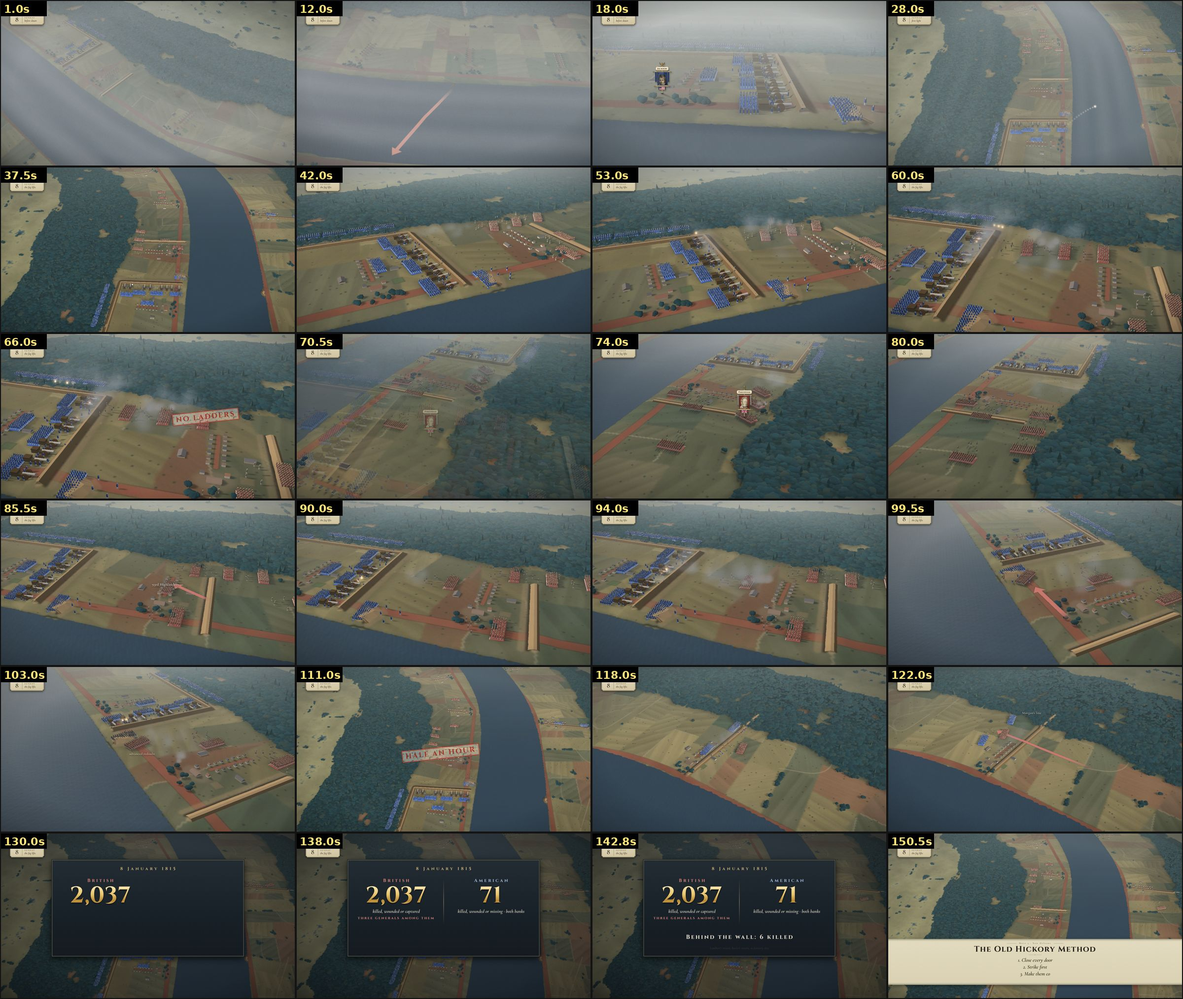
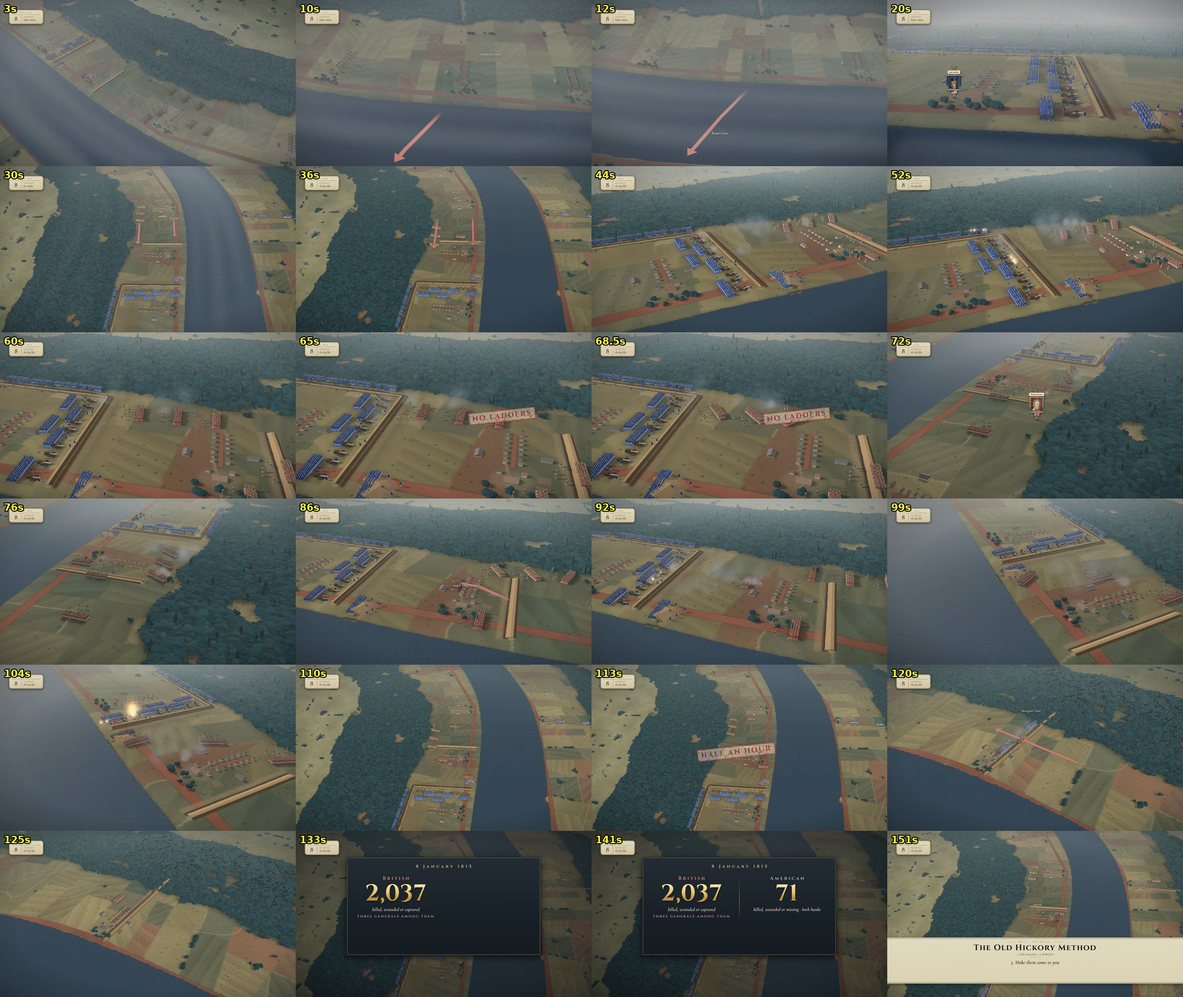
Jackson: round 1 fixes S05-S07, engine retreatTurn + depthK, S01/S03 follow-ups
Claude-Session: https://claude.ai/code/session_011uJnjAkjbSabL4aypQkYaz

diff --git a/ajackson/sequences/S03/seq.js b/ajackson/sequences/S03/seq.js
@@ -33,13 +33,15 @@ const SWIM = [8699.3, 1292.2];                                    // the south (
 const units = [];
 // the Red Stick warriors behind the wall (about 1,000): four lines facing north; at the charge they about-face and fall back toward the toe
 const RS = [0.14, 0.38, 0.62, 0.86].map((k, i) => ({ side: "r", type: "inf", n: 2, face: FN, arrive: false, t0: 7.0, t1: 113.6,
-  keys: [[0, ...wall(k, -0.75)], [[90.6, 89.4, 89.6, 90.4][i], ...wall(k, -0.75)], [100.5 + i * 0.4, ...[[8700.0, 1283.6], [8702.2, 1284.3], [8705.2, 1284.0], [8706.0, 1282.1]][i]],
+  // round 1 (S05-S07 author, engine retreatTurn): hold at the wall while the block turns about in place (~7 s, from the charge), then ONE
+  // straight walk back toward the toe (two legs with a corner would turn back to face north between them)
+  keys: [[0, ...wall(k, -0.75)], [[91.0, 90.4, 90.6, 91.2][i], ...wall(k, -0.75)],
          [110.6 + i * 0.3, ...[[8697.9, 1285.6], [8699.9, 1286.4], [8703.4, 1286.0], [8705.0, 1284.7]][i]]] }));
 units.push(...RS);
 // Jackson's lines (about 2,000 foot: the 39th US Infantry in the centre, Tennessee militia either side) walk in from Cotton Patch Hill,
 // halt ~300 yards north of the wall, charge at the drum (87.6), the 39th over first (91.5), then all across, on into the bend
 const JL = [0.2, 0.5, 0.8].map((k, i) => { const halt = wall(k, 5.0), atWall = wall(k, 0.95), over = wall(k, -1.6), deep = [[over[0], 1281.2], [over[0], 1281.4], [over[0] - 0.5, 1280.3]][i];
-  const tw = i === 1 ? 90.4 : 91.2, to = i === 1 ? 93.0 : 95.6 + (i === 0 ? 0 : 0.5);
+  const tw = i === 1 ? 91.0 : 91.2, to = i === 1 ? 95.6 : 96.8 + (i === 0 ? 0 : 0.5);   // round 1: over the wall ~1.2 s later (the Red Sticks turn about first)
   return { side: "u", type: "inf", n: 2, face: FS, arrive: false, t0: 35.4,
     keys: [[35.4, halt[0], halt[1] - 5.2], [40.8 + i * 0.3, ...halt], [T.charge, ...halt], [tw, ...atWall], [to, ...over], [104.5 + i * 0.5, ...deep], [111.2, deep[0], deep[1] + 0.8]] }; });
 units.push(...JL);

diff --git a/ajackson/sequences/S06/seq.js b/ajackson/sequences/S06/seq.js
@@ -44,7 +44,7 @@ const BAT = [0.18, 0.74, 1.12, 1.52, 2.42, 2.86, 3.98, 4.42];
 const batU = BAT.map((s, i) => add({ side: "u", type: "art", bw: 0.24, bd: 0.2, keys: [[0, ...onS(s, -0.42)]], face: FS, t0: T.eight - 0.3 + i * 0.32 }));   // round 1: guns at ~half size
 // the defenders: diggers on the line from the start (they stay and fight), the other groups file in from the rear on their words
 const POS = {
-  reg1: onS(0.46, -0.95), reg2: onS(1.97, -0.75), lam: onS(3.42, -0.75), fmc1: onS(4.2, -1.0), fmc2: onS(2.6, -1.0),   // round 1: right behind the wall, between the batteries
+  reg1: onS(0.46, -0.95), reg2: onS(1.97, -0.75), lam: onS(3.42, -0.75), fmc1: onS(4.2, -1.25), fmc2: onS(2.7, -1.25),   // round 1: right behind the wall, between the batteries
   tn1: onL(0.9, -0.95), tn2: onL(1.95, -0.95), ky1: onL(3.0, -0.95), ky2: onL(4.05, -0.95), cho: onL(5.6, -0.3),
 };
 const back = (p, f, d) => [p[0] - Math.cos(f) * d, p[1] - Math.sin(f) * d];
@@ -163,7 +163,7 @@ window.SEQ = {
     { t: 48.4, region: CH, at: [1264.2, 3239.2], dist: 12, tilt: 55, yaw: 60, fov: 30, ease: "io" },
     { t: 53.4, region: CH, at: [1263.6, 3239.6], dist: 11, tilt: 56, yaw: 56, fov: 30, ease: "lin" },
     // 4. 28 Dec: the columns probe the line
-    { t: 55.0, region: CH, at: [1256.4, 3230.0], dist: 16, tilt: 50, yaw: 72, fov: 30, ease: "io" },
+    { t: 56.2, region: CH, at: [1256.4, 3230.0], dist: 16, tilt: 50, yaw: 72, fov: 30, ease: "io" },
     { t: 60.8, region: CH, at: [1256.8, 3230.0], dist: 15, tilt: 51, yaw: 66, fov: 30, ease: "lin" },
     // 5. 1 January: the British batteries in the fog, the duel
     { t: 64.0, region: CH, at: [1254.6, 3229.0], dist: 17, tilt: 52, yaw: 64, fov: 30, ease: "io" },

diff --git a/ajackson/sequences/S05/seq.js b/ajackson/sequences/S05/seq.js
@@ -226,7 +226,7 @@ window.SEQ = {
     ["ledger.add", T.lost + 0.9, { who: "Americans: 213", note: "killed, wounded or missing", stamp: false }],
     ["ledger.hide", T.dawn + 0.6],
     ["label", T.stung, T.night + 0.8, { name: "Stung", sub: "attacked in their own camp, at night", world: [1281.6, 3232.0], side: "uk", marker: false }],
-    (O, c) => stamp(O, c, "HALTED", T.wait2 - 0.1, T.time + 0.6, [1277.4, 3235.4]),   // round 1: 2x, over the open field in front of the camp
+    (O, c) => stamp(O, c, "HALTED", T.wait2 - 0.1, T.time + 0.6, [1281.8, 3235.6]),   // round 1: 2x, over the open field in front of the camp
     // method card (round 1, critic B): the earlier line static in the sub, only the new line types on "hit him first"
     ["letter", 123.1, 129.35, { header: "Move 2 · The night attack", title: "The Old Hickory Method", sub: "1. Close every door", marks: false, quote: "2. Strike first", qSize: 34, height: 270,
       cps: 20, qAt: T.hit - 0.05, lag: 0.05, stagger: 0.06, partDur: 0.35 }],

diff --git a/ajackson/sequences/S07/seq.js b/ajackson/sequences/S07/seq.js
@@ -32,7 +32,7 @@ const onS = (s, d = 0) => [RE[0] + uS[0] * s + nS[0] * d, RE[1] + uS[1] * s + nS
 const onL = (s, d = 0) => [EL[0] + uL[0] * s + nL[0] * d, EL[1] + uL[1] * s + nL[1] * d];
 const BAT = [0.18, 0.74, 1.12, 1.52, 2.42, 2.86, 3.98, 4.42];
 const GUN = (i) => onS(BAT[i], -0.42);
-const POS = { reg1: onS(0.46, -0.95), reg2: onS(1.97, -0.75), lam: onS(3.42, -0.75), fmc1: onS(4.2, -1.0), fmc2: onS(2.6, -1.0),   // round 1: = S06, right behind the wall
+const POS = { reg1: onS(0.46, -0.95), reg2: onS(1.97, -0.75), lam: onS(3.42, -0.75), fmc1: onS(4.2, -1.25), fmc2: onS(2.7, -1.25),   // round 1: = S06, right behind the wall
   tn1: onL(0.9, -0.5), tn2: onL(1.95, -0.5), ky1: onL(3.0, -0.5), ky2: onL(4.05, -0.5), cho: onL(5.6, -0.3) };
 const REDOUBT = (() => { const w = VX.work(CH, 1); const m = w[Math.floor(w.length / 2)]; return [m[0], m[1]]; })();
 

diff --git a/ajackson/sequences/S03/NOTES.md b/ajackson/sequences/S03/NOTES.md
@@ -30,3 +30,6 @@ Open issues: frame 0 is a close gulf view (S02 must end on the same camera: gulf
 - The NEXT label now reads "Next: the British come".
 - NOT fixed here (world / engine): the smeared hill texture is the horseshoe bake's relief overlay (needs a re-bake, not a camera issue); the gulf blotchy texture is the gulf bake. Red Stick retreats 92-108: the engine about-faces the men, but at 720p the men are ~3 px and the plate (pale front edge) keeps facing north, so it still reads as backing away (checked the render at 5 fps). Left to the S05 author's engine check.
 - check_troops_motion horseshoe 0-127: no overlaps, no pops, shape 0 %.
+
+## Round 1 (S05-S07 author, engine retreatTurn)
+- Red Stick lines: hold at the wall to 90.4-91.2 while each block turns about in place (~7 s), then ONE straight walk back toward the toe by 110.6-111.5 (no backward walk; front-vs-velocity <= 21 deg). Jackson's lines go over the wall ~1.2-2.6 s later (93.6-97.3) so nothing overlaps. check_troops_motion 0-177.69 horseshoe: 0 overlaps, 0 pops; one 49 deg/s turn (u17 @83.7).
